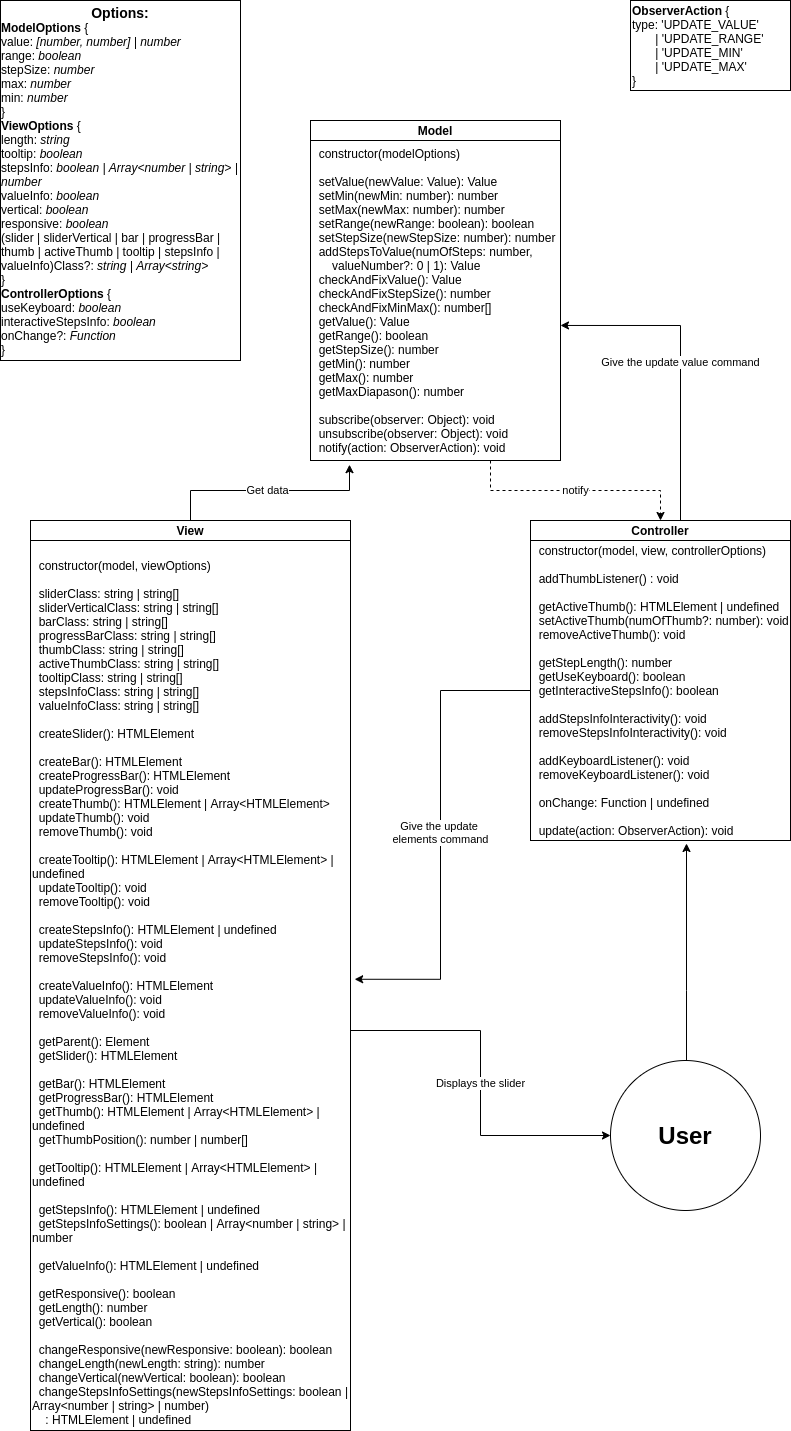
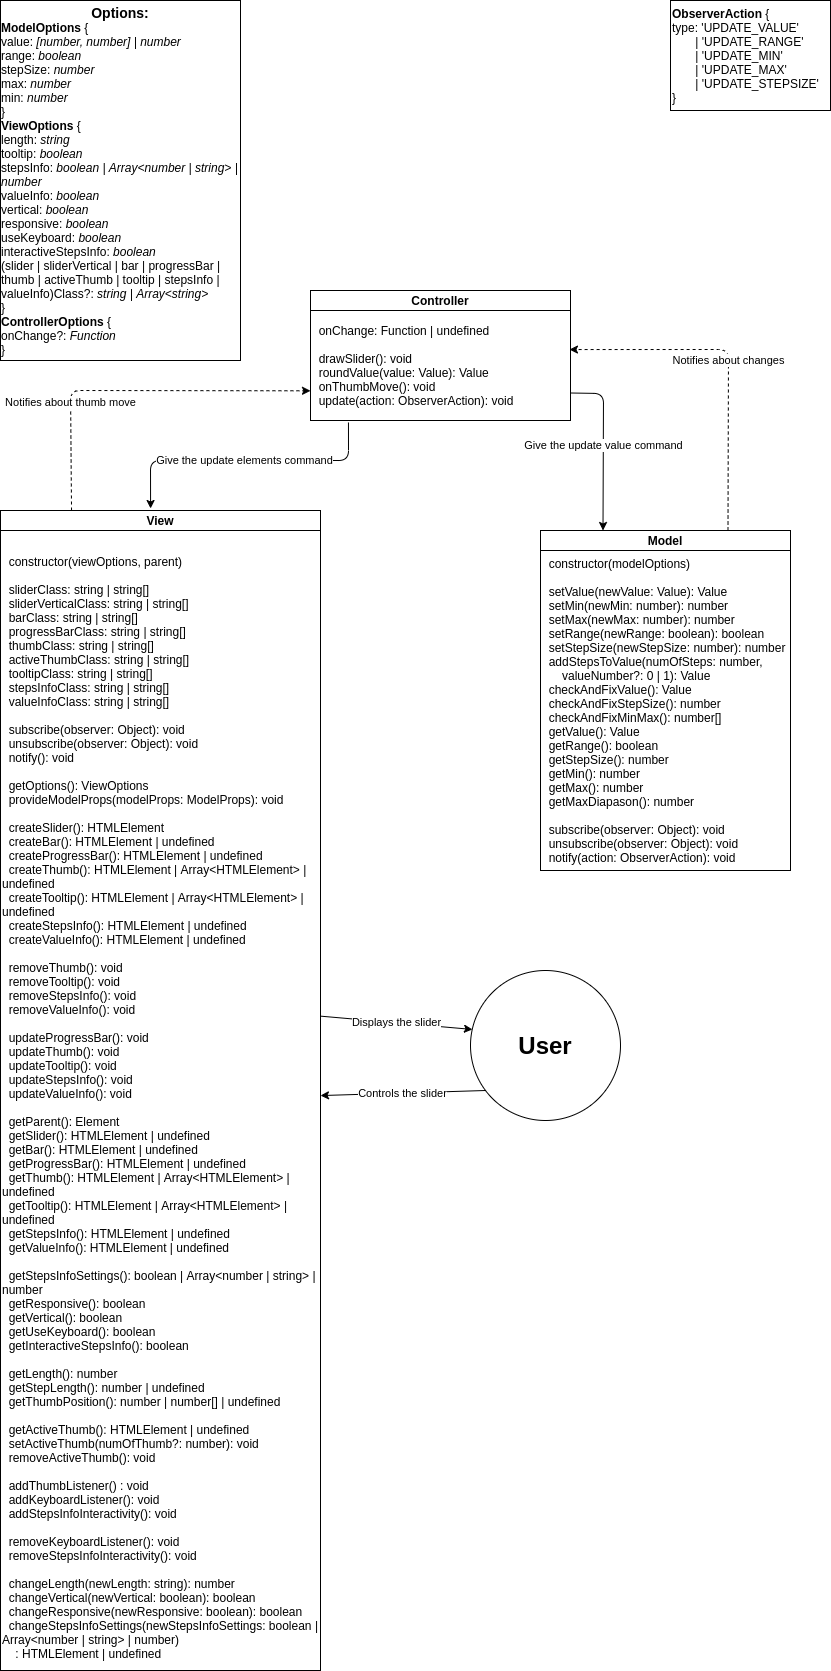
Changed architecture description

diff --git a/README.md b/README.md
@@ -97,14 +97,15 @@ npm run build:prod
 
 ## Описание архитектуры
 #### Model
-Управляет значением слайдера(работа без пользовательского интерфейса). Реализует Observer. 
+Управляет значением слайдера(работа без пользовательского интерфейса). 
 При изменении значений вызывает у всех подписчиков метод update 
 с входящим параметром action. В action.type может храниться: 'UPDATE_VALUE' 
-| 'UPDATE_RANGE' | 'UPDATE_MIN' | 'UPDATE_MAX'.
+| 'UPDATE_RANGE' | 'UPDATE_MIN' | 'UPDATE_MAX' | 'UPDATE_STEPSIZE'.
 #### View
-Отрисовывает все элементы слайдера. Берет значения из model.
+Отрисовывает все элементы слайдера. Значения предоставляет Controller через метод provideModelProps.
+При движении ползунка вызывает у всех подписчиков метод onThumbMove.
 #### Controller
-Реализует взаимодействие пользователя и модели. Управляет ползунками и шкалой значений(если интерактивная).
-Подписывается на model, обновляет view.
+Реализует взаимодействие отображения и модели. Подписывается и на model, и на view. 
+При изменении модели обновляет view, при движении ползунка передает значение в model.
 
 ### ![Diagram](https://github.com/vrRoman/FSD-frontend-4-task/blob/master/slider-uml.png)
